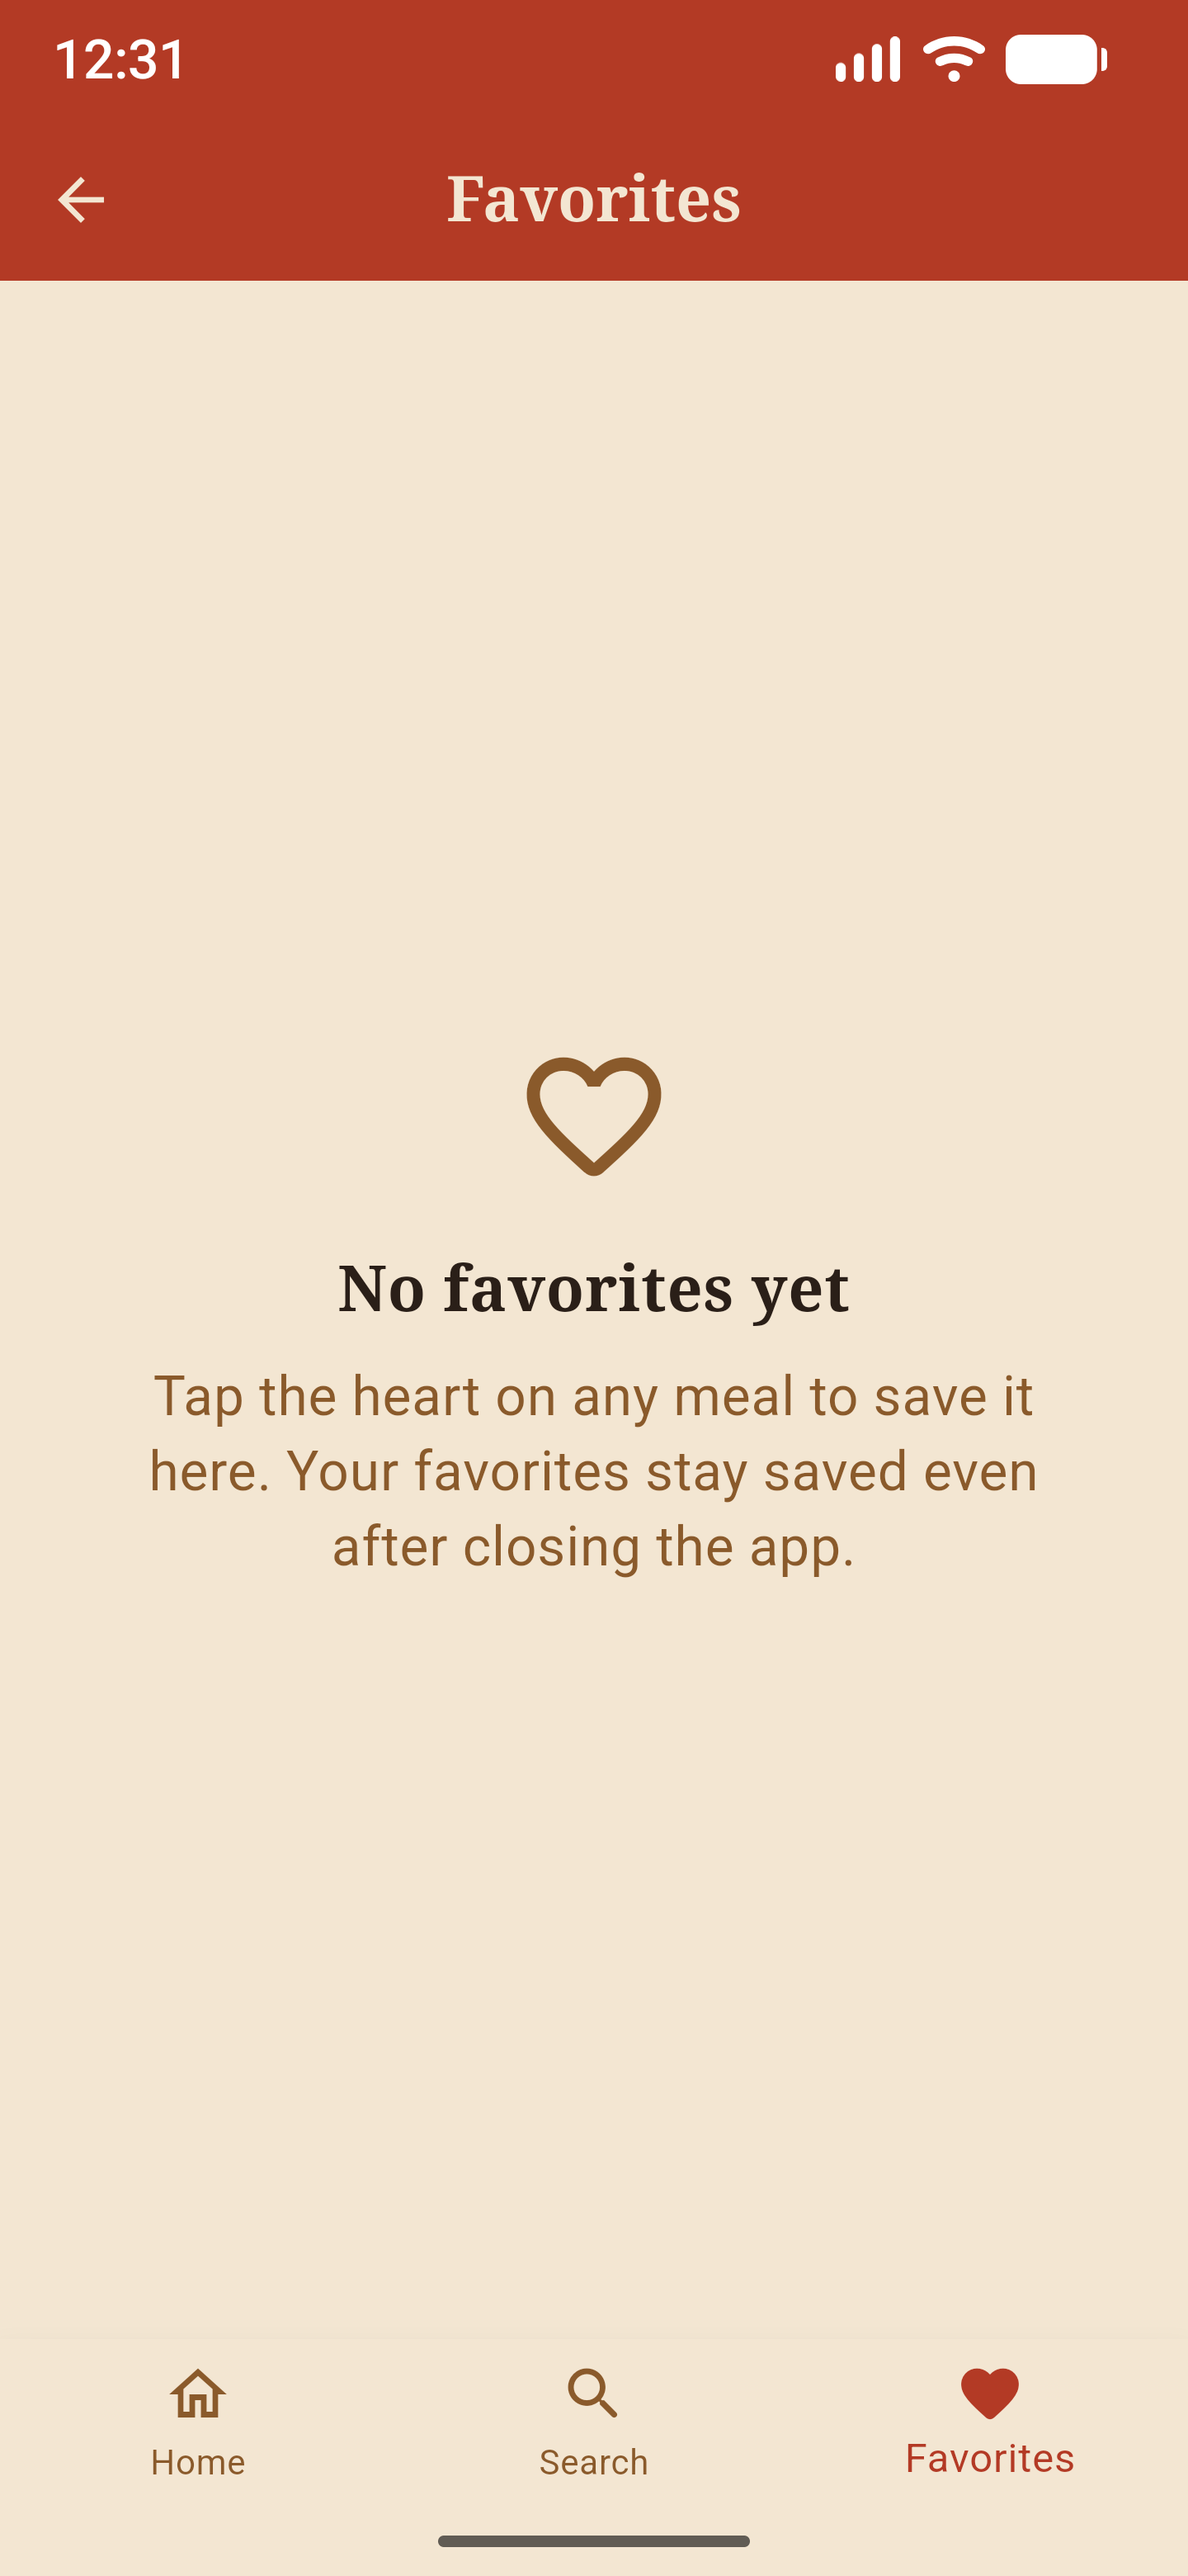
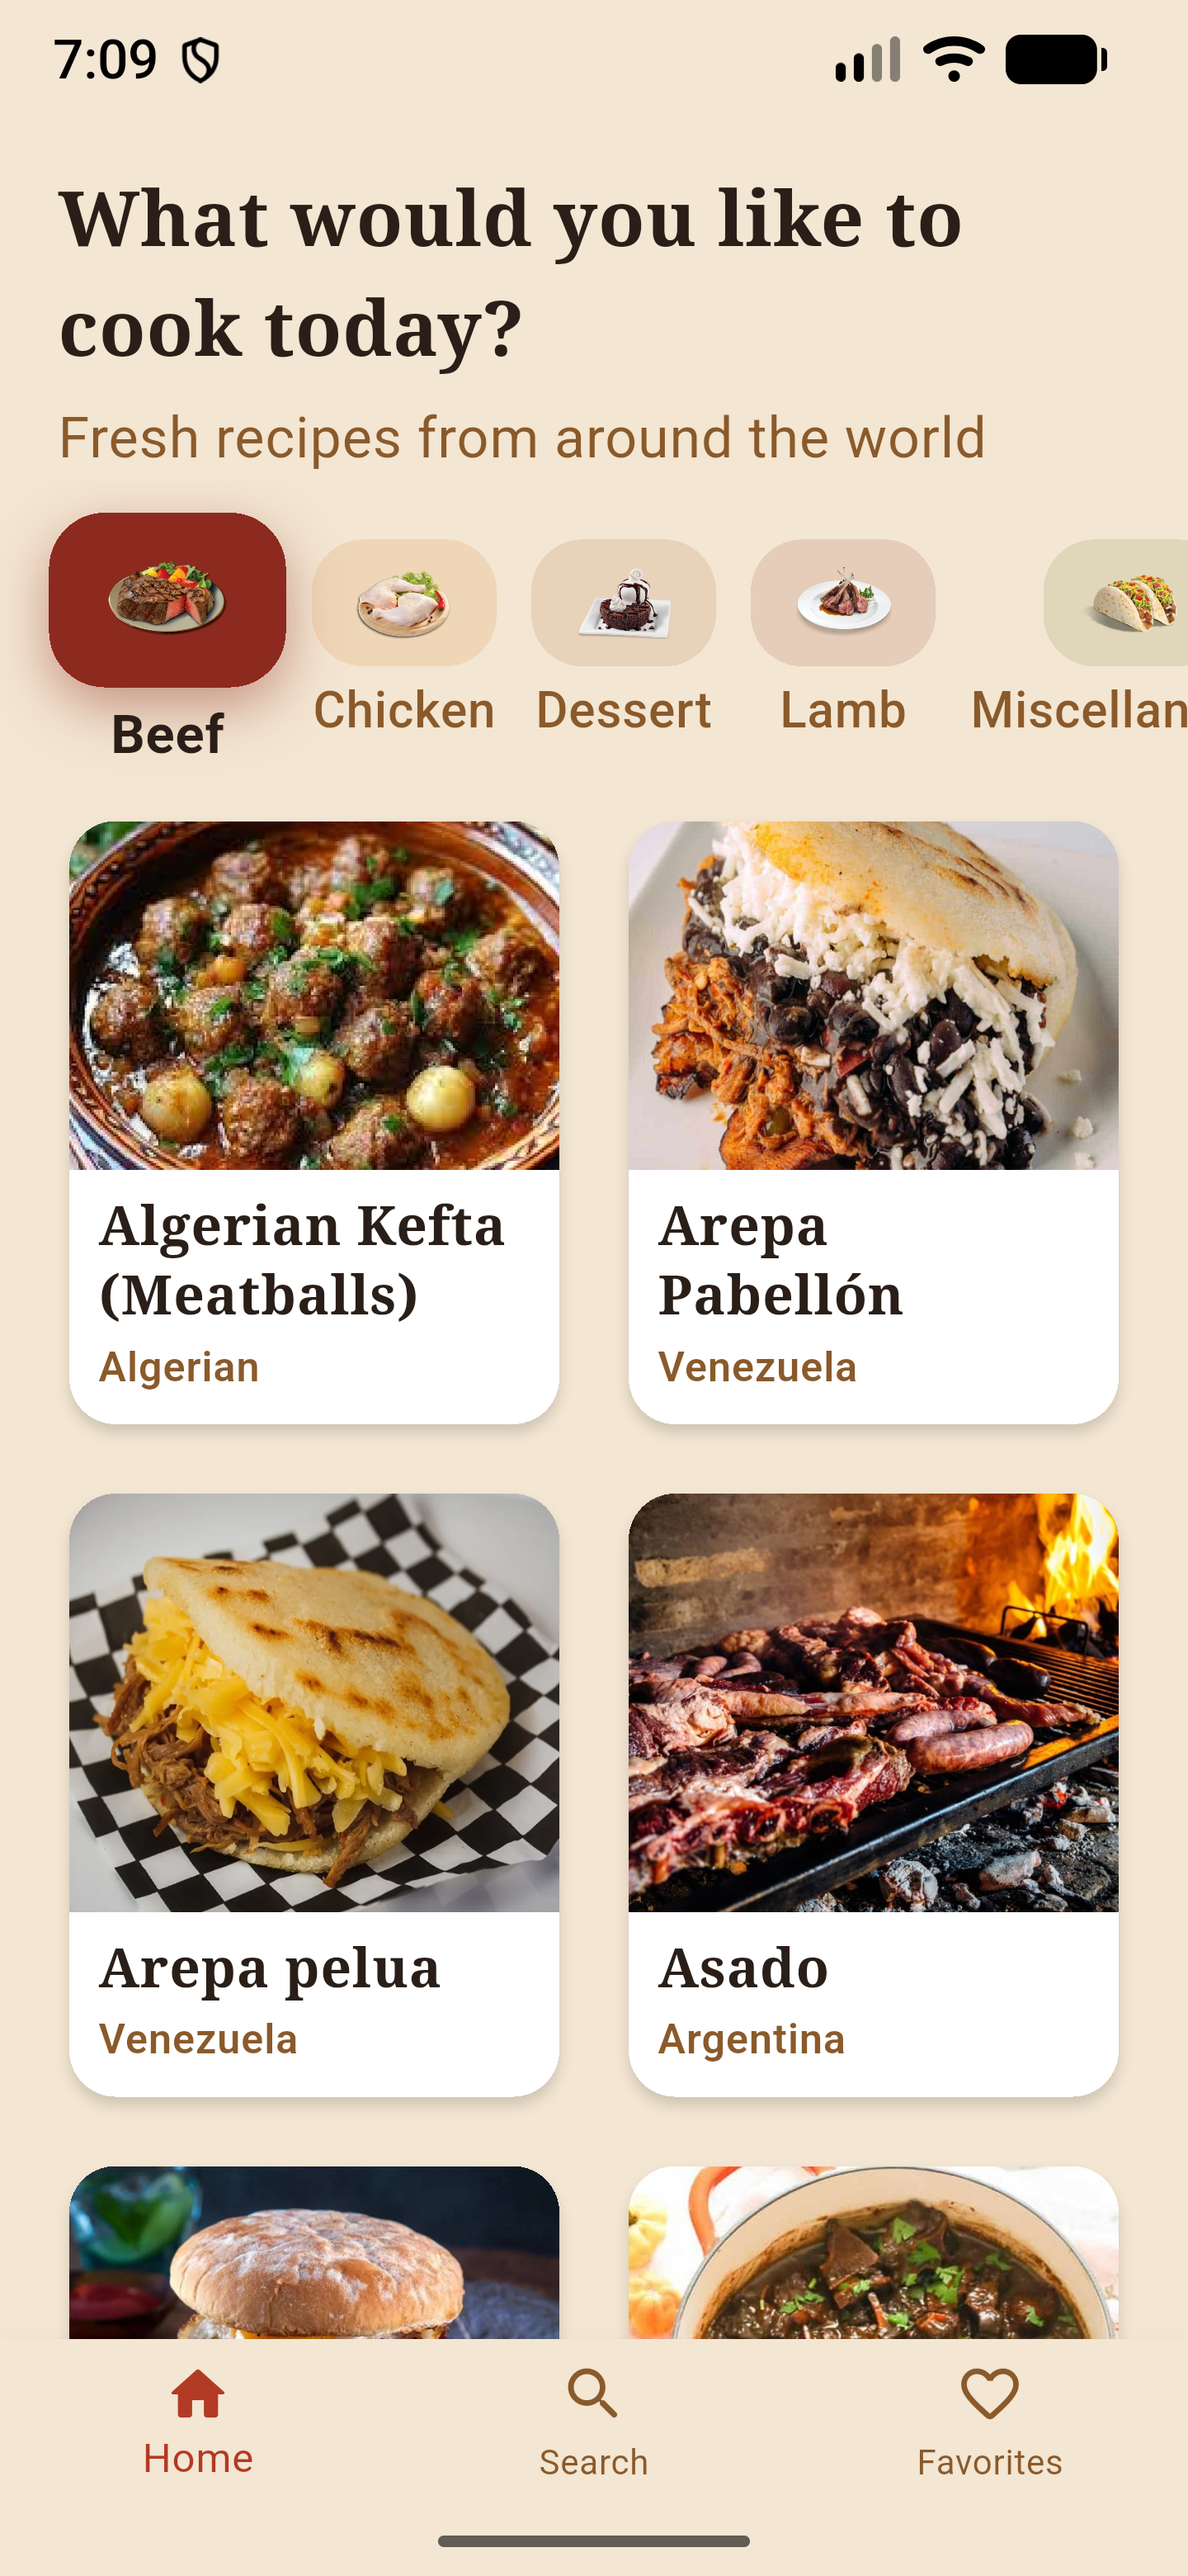
docs: dessert and favorites screenshots, hero-flight GIF in the README

diff --git a/README.md b/README.md
@@ -15,10 +15,10 @@ app restarts.
 
 | Screen | What it does | Screenshot |
 |---|---|---|
-| **Home** | Horizontal categories strip (`ListView.builder`) with a selected-state pigment + two-column meals grid (`GridView.builder`), with loading and error states | [02-home](docs/second_round/02-home.png) · [03-category-beef](docs/second_round/03-category-beef.png) |
+| **Home** | Horizontal categories strip (`ListView.builder`) with a selected-state pigment + two-column meals grid (`GridView.builder`), with loading and error states | [02-home](docs/second_round/02-home.png) · [03-category-beef](docs/second_round/03-category-beef.png) · [07-category-dessert](docs/second_round/07-category-dessert.png) |
 | **Meal Details** | Collapsible hero image header, meal name with origin (`strArea`) and category chips, ingredients with measures, preparation steps, YouTube button (`url_launcher`), favorite heart | [04-meal-details](docs/second_round/04-meal-details.png) |
 | **Search** | English meal-name search hitting `search.php?s=` with a 500 ms debounce and a designed empty state ("No meals found") | [05-search-results](docs/second_round/05-search-results.png) · [06-search-empty](docs/second_round/06-search-empty.png) |
-| **Favorites** | Saved meals stored locally with `shared_preferences`, persisting after app close/restart, removable per card | [12-favorites-dark](docs/second_round/12-favorites-dark.png) |
+| **Favorites** | Saved meals stored locally with `shared_preferences`, persisting after app close/restart, removable per card | [08-favorites](docs/second_round/08-favorites.png) · [12-favorites-dark](docs/second_round/12-favorites-dark.png) |
 
 A Splash screen opens the app, and a bottom navigation bar (`IndexedStack`)
 links Home, Search, and Favorites. Dark mode follows the system setting
@@ -54,6 +54,8 @@ Exactly the five exam-allowed packages:
 - **Hero image transition** — the meal photo flies between the grid card and
   the details header in both navigation directions: into the header when a
   meal is opened, and back to the card when navigating back.
+
+  ![Hero flight — the meal photo flies from the Home card into the details header, present on frame 1 while the data loads underneath](docs/second_round/hero-flight.gif)
 - **Per-category pigments** — every category carries its own fixed accent
   color (`CategoryColors`), lifted for dark-mode contrast.
 
@@ -94,6 +96,7 @@ Light:
 | ![Launch](docs/second_round/01-launch.png) | ![Home](docs/second_round/02-home.png) |
 | ![Category](docs/second_round/03-category-beef.png) | ![Details](docs/second_round/04-meal-details.png) |
 | ![Search results](docs/second_round/05-search-results.png) | ![Search empty](docs/second_round/06-search-empty.png) |
+| ![Dessert category](docs/second_round/07-category-dessert.png) | ![Favorites](docs/second_round/08-favorites.png) |
 
 Dark:
 
